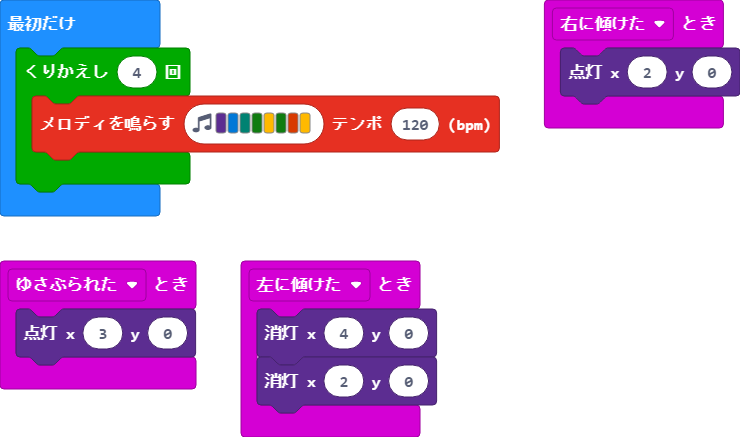
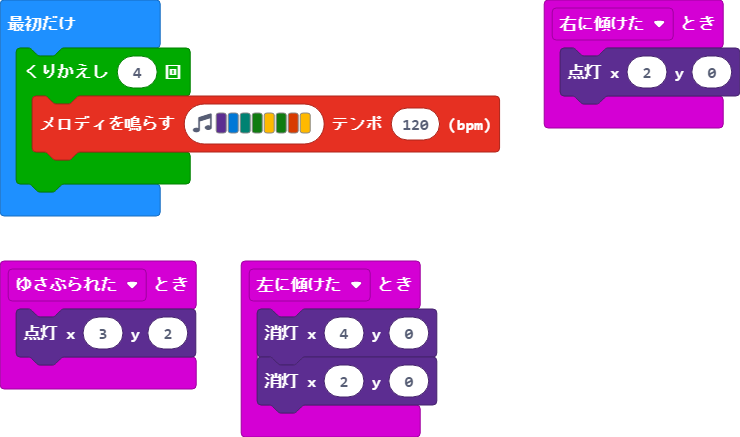
更新 pxt.json, main.blocks, main.ts

diff --git a/main.ts b/main.ts
@@ -1,12 +1,12 @@
-input.onGesture(Gesture.TiltRight, function on_gesture_tilt_right() {
+input.onGesture(Gesture.TiltRight, function () {
     led.plot(2, 0)
 })
-input.onGesture(Gesture.TiltLeft, function on_gesture_tilt_left() {
+input.onGesture(Gesture.TiltLeft, function () {
     led.unplot(4, 0)
     led.unplot(2, 0)
 })
-input.onGesture(Gesture.Shake, function on_gesture_shake() {
-    led.plot(3, 0)
+input.onGesture(Gesture.Shake, function () {
+    led.plot(3, 2)
 })
 for (let index = 0; index < 4; index++) {
     music.playMelody("D E F G A G B A ", 120)
